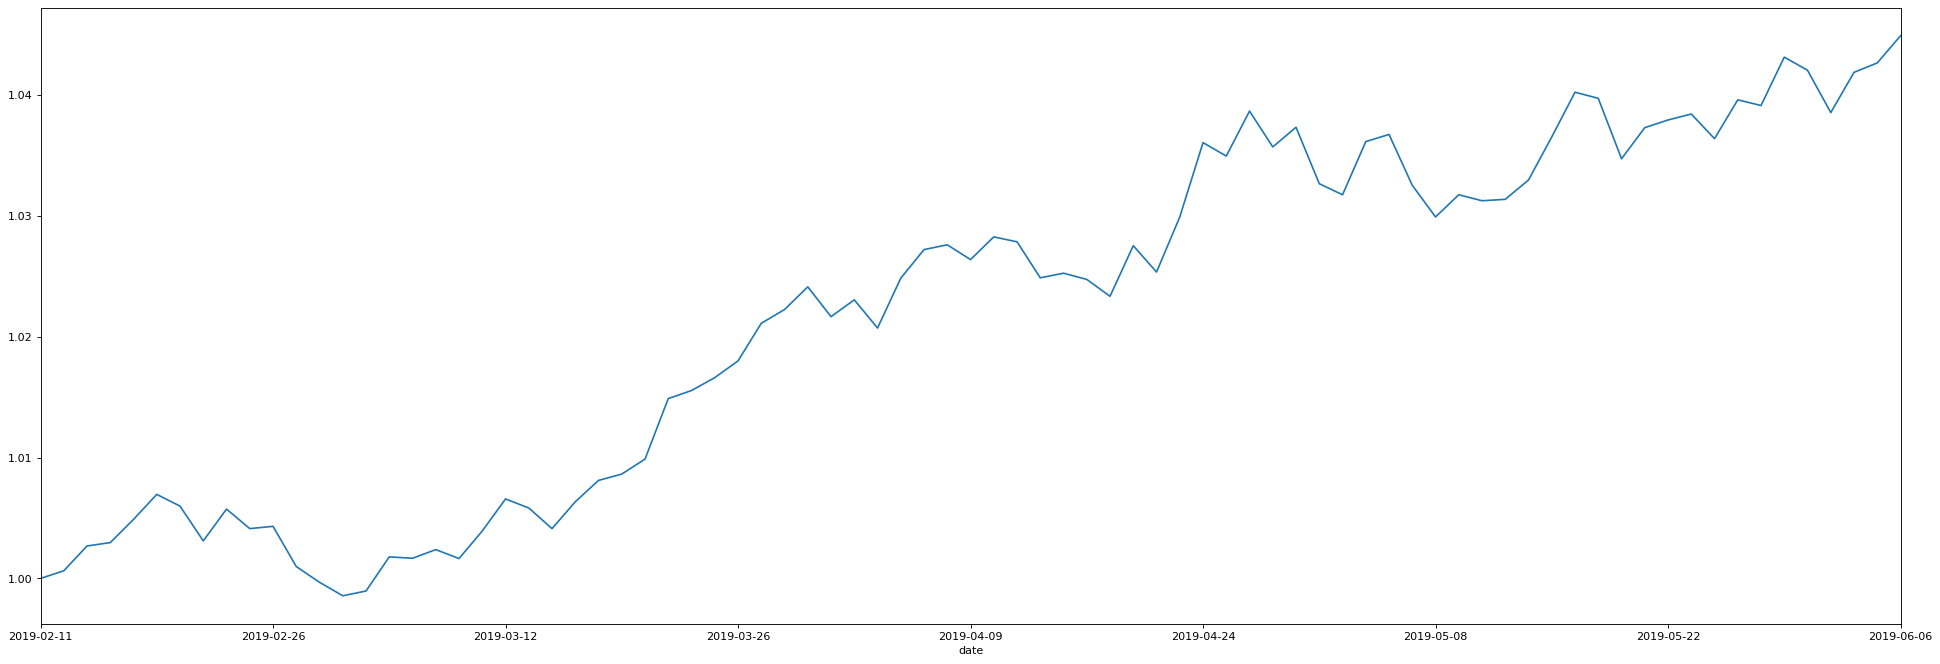
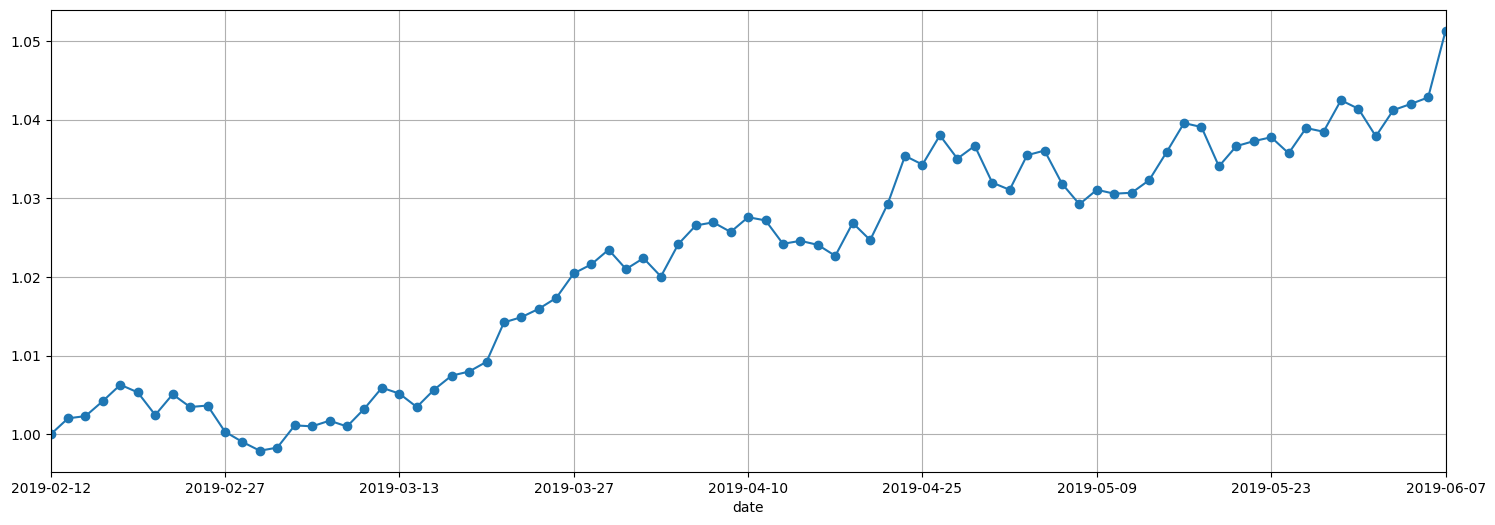
Use circle marker and update figure size

diff --git a/main.py b/main.py
@@ -78,11 +78,11 @@ def get_close_price(price_data):
 
 
 def plot_data(data, do_data_scaling, fig_filepath):
-    plt.figure(figsize=(30,10), dpi=80)
+    plt.figure(figsize=(18,6), dpi=100)
     if do_data_scaling:
         (data / data[0]).plot(marker='o')
     else:
-        data.plot()
+        data.plot(marker='o')
     plt.grid()
     plt.savefig(fig_filepath, bbox_inches='tight')
 
